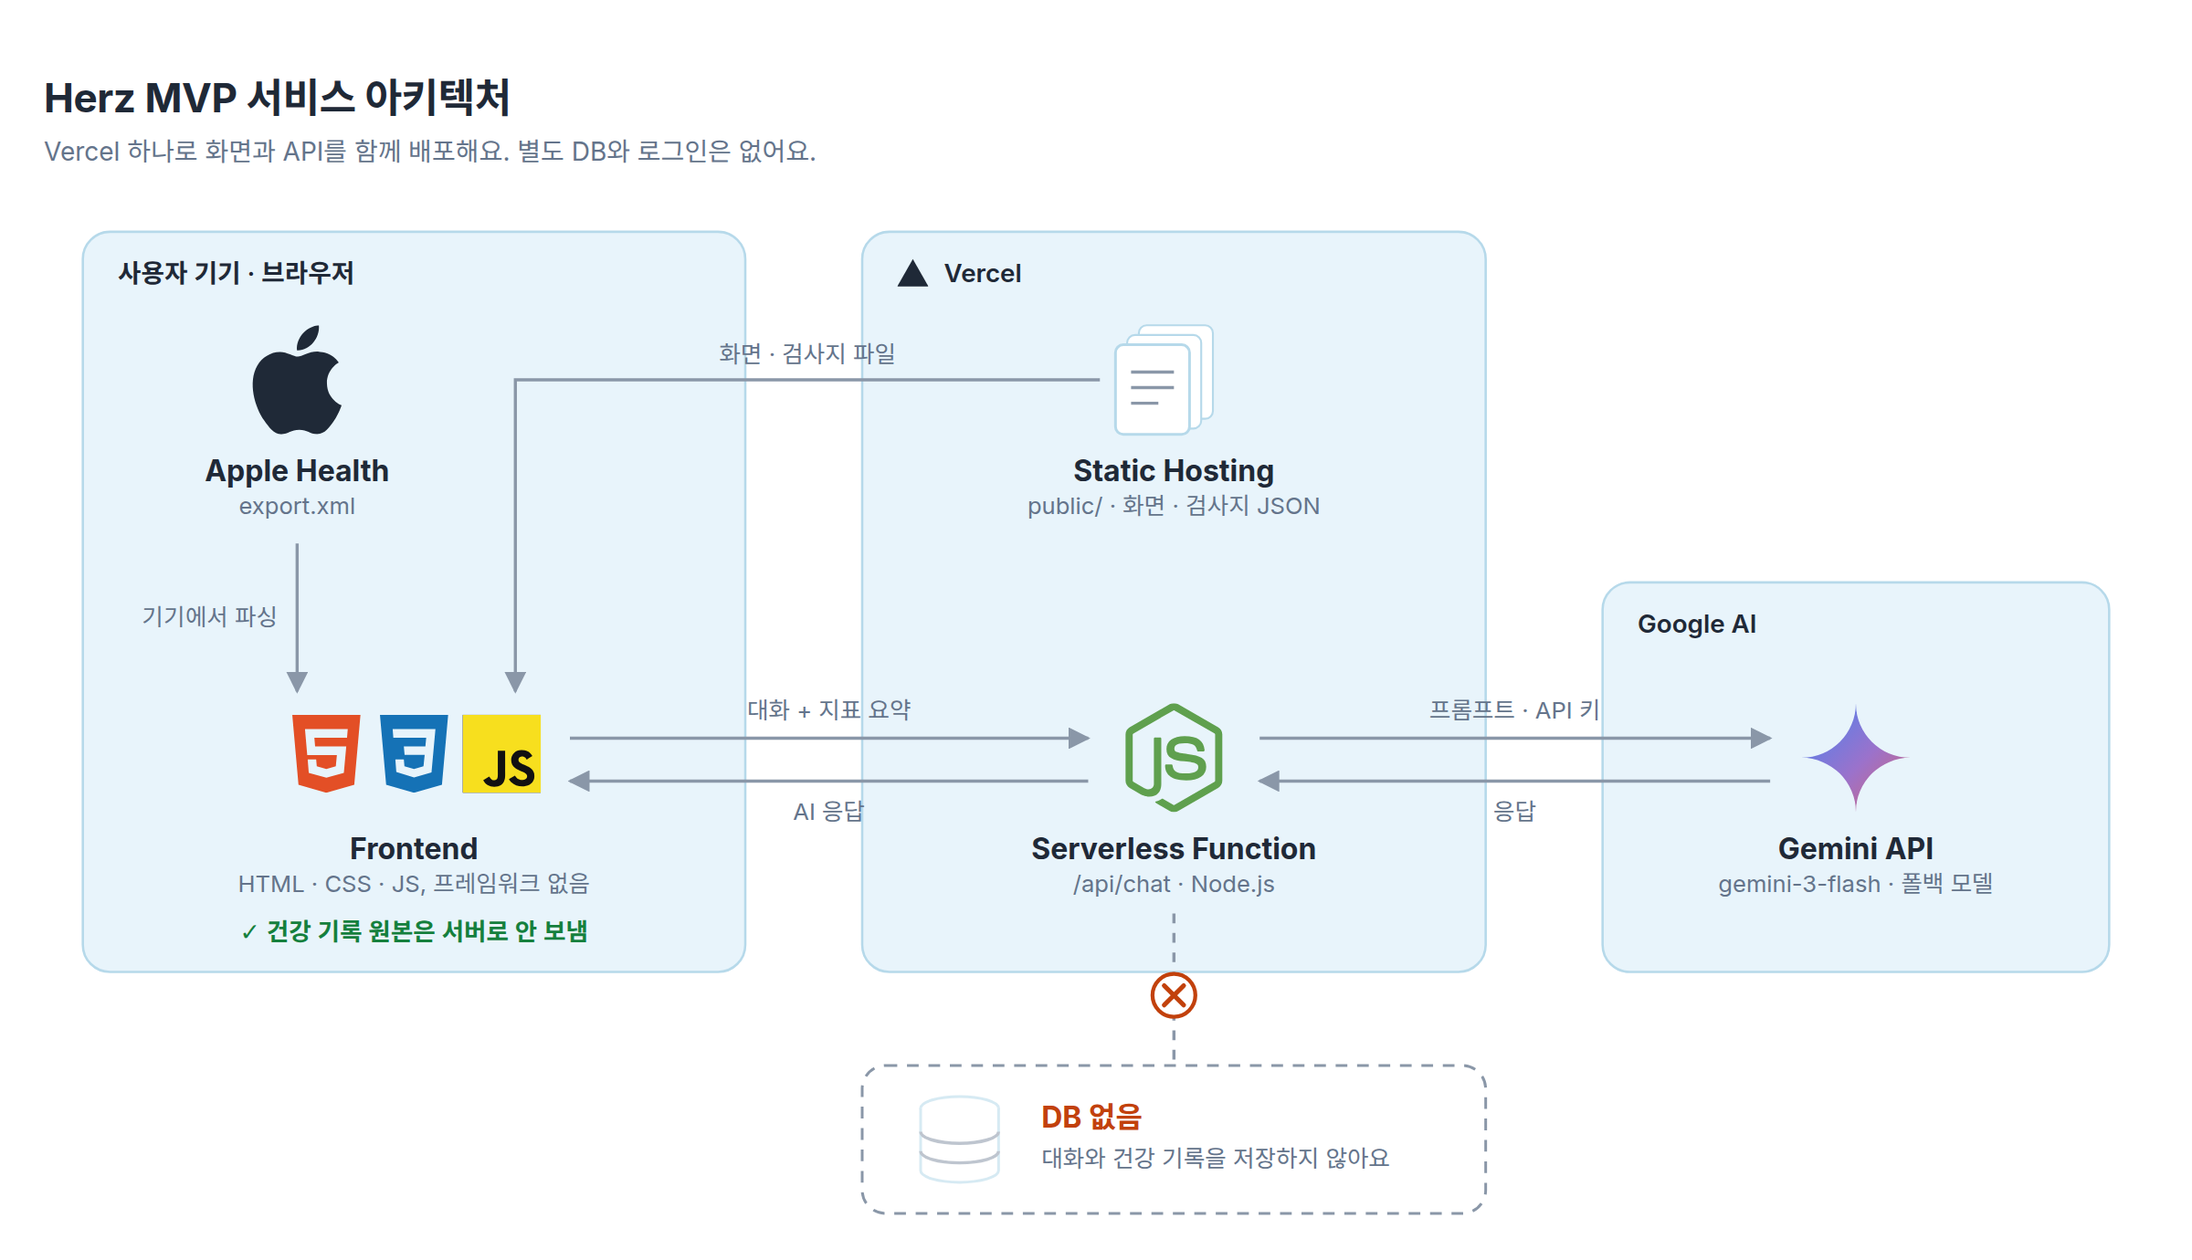
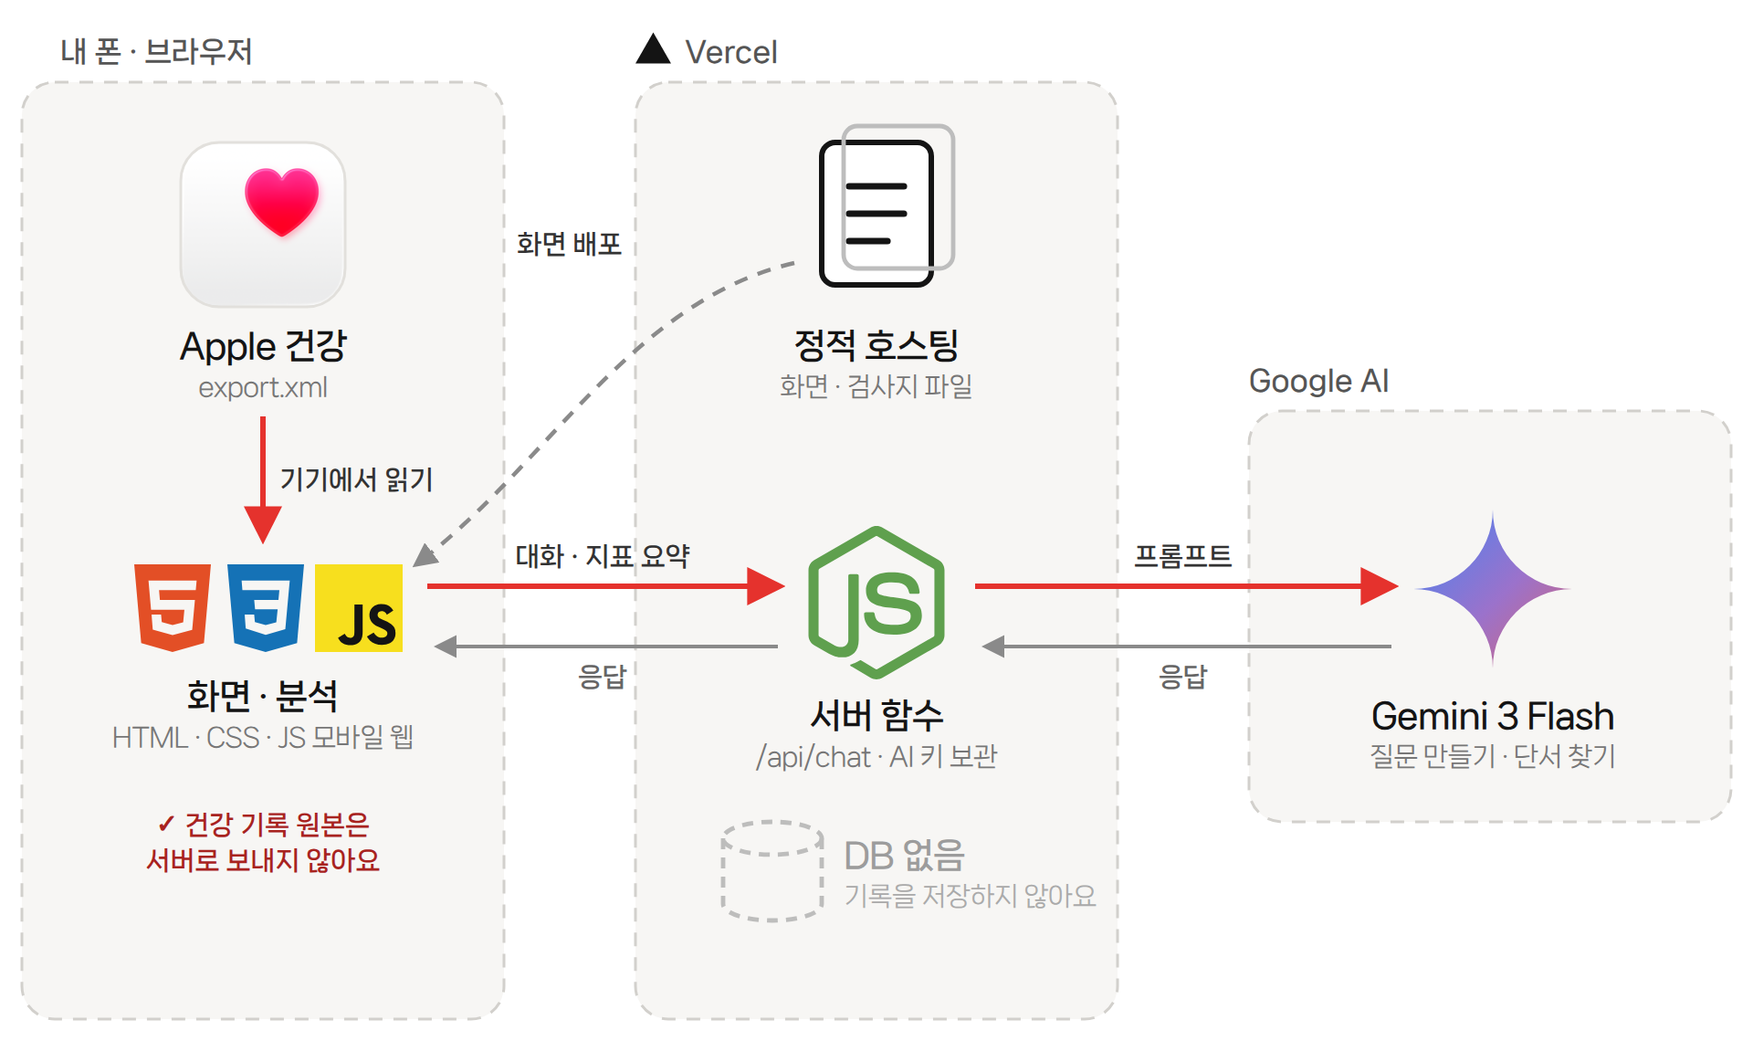
README: 아키텍처 그림을 발표 자료 4번 슬라이드 원본으로 교체

diff --git a/docs/readme/architecture.html b/docs/readme/architecture.html
@@ -1,151 +1,49 @@
-<title>Herz Architecture</title>
-<meta name="claude:viewport-fit-sides" content="cover">
-<link rel="preconnect" href="https://fonts.googleapis.com">
-<link rel="stylesheet" href="https://fonts.googleapis.com/css2?family=Inter:wght@400;600;700&family=Noto+Sans+KR:wght@400;500;700&display=swap">
-<style>
-/* Layout: one wide system diagram, three clusters left to right, the absent DB below the server. */
-:root {
-  --bg: #ffffff;
-  --fg: #1f2937;
-  --muted: #64748b;
-  --panel: #e8f4fb;
-  --panel-stroke: #b6d9ea;
-  --edge: #8a97a8;
-  --ok: #15803d;
-  --no: #c2410c;
-  --chip: #111827;
-  --font: "Inter", "Noto Sans KR", system-ui, sans-serif;
-}
-@media (prefers-color-scheme: dark) {
-  :root:not([data-theme="light"]) {
-    --bg: #0f1419; --fg: #e5e7eb; --muted: #94a3b8; --panel: #15232e; --panel-stroke: #2c4a5c;
-    --edge: #7c8a9c; --ok: #4ade80; --no: #fb923c; --chip: #0b0f14; color-scheme: dark;
-  }
-}
-:root[data-theme="dark"] {
-  --bg: #0f1419; --fg: #e5e7eb; --muted: #94a3b8; --panel: #15232e; --panel-stroke: #2c4a5c;
-  --edge: #7c8a9c; --ok: #4ade80; --no: #fb923c; --chip: #0b0f14; color-scheme: dark;
-}
-body { background: var(--bg); color: var(--fg); font-family: var(--font); }
-main { max-width: 1180px; margin: 0 auto; padding-block: 28px 40px;
-  padding-left: max(16px, env(safe-area-inset-left, 0px)); padding-right: max(16px, env(safe-area-inset-right, 0px)); }
-h1 { font-size: 22px; font-weight: 700; margin: 0 0 4px; letter-spacing: -0.01em; }
-.lead { margin: 0 0 20px; color: var(--muted); font-size: 14px; }
-figure { margin: 0; }
-.scroll { overflow-x: auto; }
-svg.arch { display: block; width: 100%; height: auto; color: var(--fg); }
-figcaption { margin-top: 14px; color: var(--muted); font-size: 13px; text-align: center; }
-.grp { fill: var(--panel); stroke: var(--panel-stroke); stroke-width: 1.2; }
-.gt { fill: var(--fg); font-size: 13px; font-weight: 600; }
-.lbl { fill: var(--fg); font-size: 15px; font-weight: 700; text-anchor: middle; }
-.sub { fill: var(--muted); font-size: 12px; text-anchor: middle; }
-.el { fill: var(--muted); font-size: 12px; }
-.edge { stroke: var(--edge); stroke-width: 1.6; fill: none; }
-.dash { stroke-dasharray: 5 5; }
-.head { fill: var(--edge); }
-.fg { fill: var(--fg); }
-.ok { fill: var(--ok); font-size: 12.5px; font-weight: 600; }
-.no { stroke: var(--no); stroke-width: 2.4; fill: none; stroke-linecap: round; }
-.noTxt { fill: var(--no); font-size: 15px; font-weight: 700; }
-.nobox { fill: none; stroke: var(--edge); stroke-width: 1.4; stroke-dasharray: 6 5; }
-.card { fill: var(--bg); stroke: var(--panel-stroke); }
-.chip { fill: var(--chip); }
-</style>
+<!doctype html><html><head><meta charset="utf-8"><style>html,body{margin:0;background:#fff}</style></head><body><svg xmlns="http://www.w3.org/2000/svg" viewBox="0 0 640 380" width="640" height="380">
+<defs>
+<marker id="r" viewBox="0 0 10 10" refX="8" refY="5" markerWidth="7" markerHeight="7" orient="auto"><path d="M0,0 L10,5 L0,10 z" fill="#E5322D"/></marker>
+<marker id="g" viewBox="0 0 10 10" refX="8" refY="5" markerWidth="6" markerHeight="6" orient="auto"><path d="M0,0 L10,5 L0,10 z" fill="#8A8A8A"/></marker>
+<linearGradient id="gem" x1="0" y1="0" x2="1" y2="1"><stop offset="0" stop-color="#4285F4"/><stop offset=".55" stop-color="#9B72CB"/><stop offset="1" stop-color="#D96570"/></linearGradient>
+<style>.t{font:800 12.5px 'NanumSquare Neo','NanumBarunGothic',sans-serif;fill:#141414;letter-spacing:-.3px}.s{font:400 9.5px 'NanumSquare Neo','NanumBarunGothic',sans-serif;fill:#777;letter-spacing:-.2px}.gl{font:800 10.5px 'NanumSquare Neo','NanumBarunGothic',sans-serif;fill:#555}.al{font:700 9.5px 'NanumSquare Neo','NanumBarunGothic',sans-serif;fill:#333}.ok{font:800 9.5px 'NanumSquare Neo','NanumBarunGothic',sans-serif;fill:#A8231F}</style>
+</defs>
+<rect x="8" y="30" width="176" height="342" rx="12" fill="#F7F6F4" stroke="#D2D0CC" stroke-dasharray="5 4"/>
+<text x="22" y="22" class="gl">내 폰 · 브라우저</text>
+<rect x="232" y="30" width="176" height="342" rx="12" fill="#F7F6F4" stroke="#D2D0CC" stroke-dasharray="5 4"/>
+<svg x="232" y="11" width="13" height="13" viewBox="0 0 24 24"><path fill="#141414" d="M24 22.525H0l12-21.05 12 21.05z"/></svg><text x="250" y="22" class="gl">Vercel</text>
+<rect x="456" y="150" width="176" height="150" rx="12" fill="#F7F6F4" stroke="#D2D0CC" stroke-dasharray="5 4"/>
+<text x="456" y="142" class="gl">Google AI</text>
 
-<main>
-  <h1>Herz MVP 서비스 아키텍처</h1>
-  <p class="lead">Vercel 하나로 화면과 API를 함께 배포해요. 별도 DB와 로그인은 없어요.</p>
+<image href="icons/apple-health.png" x="66" y="52" width="60" height="60" clip-path="inset(0 round 14px)"/>
+<rect x="66" y="52" width="60" height="60" rx="14" fill="none" stroke="#E2E0DC"/>
+<text x="96" y="130" text-anchor="middle" class="t">Apple 건강</text><text x="96" y="144" text-anchor="middle" class="s">export.xml</text>
 
-  <figure>
-    <div class="scroll">
-    <svg class="arch" viewBox="20 56 1080 534" role="img"
-      aria-label="브라우저가 건강 기록을 기기 안에서 분석하고, 대화와 지표 요약만 Vercel 함수로 보내며, 함수가 Gemini API를 호출한다. DB는 없다.">
-      <defs>
-        <marker id="arw" viewBox="0 0 10 10" refX="9" refY="5" markerWidth="7" markerHeight="7" orient="auto-start-reverse">
-          <path class="head" d="M0 0 10 5 0 10z"/>
-        </marker>
-        <linearGradient id="gem" x1="0" y1="0" x2="1" y2="1">
-          <stop offset="0" stop-color="#4285F4"/>
-          <stop offset=".55" stop-color="#9B72CB"/>
-          <stop offset="1" stop-color="#D96570"/>
-        </linearGradient>
-      </defs>
+<path d="M96 152 V196" stroke="#E5322D" stroke-width="2" fill="none" marker-end="url(#r)"/>
+<text x="102" y="178" class="al">기기에서 읽기</text>
 
-      <!-- clusters -->
-      <rect class="grp" x="40" y="70" width="340" height="380" rx="14"/>
-      <text class="gt" x="58" y="96">사용자 기기 · 브라우저</text>
+<svg x="47" y="206" width="32" height="32" viewBox="0 0 24 24"><path fill="#E34F26" d="M1.5 0h21l-1.91 21.563L11.977 24l-8.564-2.438L1.5 0zm7.031 9.75l-.232-2.718 10.059.003.23-2.622L5.412 4.41l.698 8.01h9.126l-.326 3.426-2.91.804-2.955-.81-.188-2.11H6.248l.33 4.171L12 19.351l5.379-1.443.744-8.157H8.531z"/></svg><svg x="81" y="206" width="32" height="32" viewBox="0 0 24 24"><path fill="#1572B6" d="M1.5 0h21l-1.91 21.563L11.977 24l-8.565-2.438L1.5 0zm17.09 4.413L5.41 4.41l.213 2.622 10.125.002-.255 2.716h-6.64l.24 2.573h6.182l-.366 3.523-2.91.804-2.956-.81-.188-2.11h-2.61l.29 3.855L12 19.288l5.373-1.53L18.59 4.414z"/></svg><rect x="117" y="208" width="28" height="28" fill="#141414"/><svg x="115" y="206" width="32" height="32" viewBox="0 0 24 24"><path fill="#F7DF1E" d="M0 0h24v24H0V0zm22.034 18.276c-.175-1.095-.888-2.015-3.003-2.873-.736-.345-1.554-.585-1.797-1.14-.091-.33-.105-.51-.046-.705.15-.646.915-.84 1.515-.66.39.12.75.42.976.9 1.034-.676 1.034-.676 1.755-1.125-.27-.42-.404-.601-.586-.78-.63-.705-1.469-1.065-2.834-1.034l-.705.089c-.676.165-1.32.525-1.71 1.005-1.14 1.291-.811 3.541.569 4.471 1.365 1.02 3.361 1.244 3.616 2.205.24 1.17-.87 1.545-1.966 1.41-.811-.18-1.26-.586-1.755-1.336l-1.83 1.051c.21.48.45.689.81 1.109 1.74 1.756 6.09 1.666 6.871-1.004.029-.09.24-.705.074-1.65l.046.067zm-8.983-7.245h-2.248c0 1.938-.009 3.864-.009 5.805 0 1.232.063 2.363-.138 2.711-.33.689-1.18.601-1.566.48-.396-.196-.597-.466-.83-.855-.063-.105-.11-.196-.127-.196l-1.825 1.125c.305.63.75 1.172 1.324 1.517.855.51 2.004.675 3.207.405.783-.226 1.458-.691 1.811-1.411.51-.93.402-2.07.397-3.346.012-2.054 0-4.109 0-6.179l.004-.056z"/></svg>
+<text x="96" y="258" text-anchor="middle" class="t">화면 · 분석</text><text x="96" y="272" text-anchor="middle" class="s">HTML · CSS · JS 모바일 웹</text>
+<text x="96" y="304" text-anchor="middle" class="ok">✓ 건강 기록 원본은</text>
+<text x="96" y="317" text-anchor="middle" class="ok">서버로 보내지 않아요</text>
 
-      <rect class="grp" x="440" y="70" width="320" height="380" rx="14"/>
-      <svg x="458" y="83" width="16" height="16" viewBox="0 0 24 24"><path class="fg" d="M24 22.525H0l12-21.05 12 21.05z"/></svg>
-      <text class="gt" x="482" y="96">Vercel</text>
+<g transform="translate(296,52)"><rect x="4" y="0" width="40" height="52" rx="5" fill="#fff" stroke="#141414" stroke-width="2"/><path d="M14 16 H34 M14 26 H34 M14 36 H28" stroke="#141414" stroke-width="2.4" stroke-linecap="round"/><rect x="12" y="-6" width="40" height="52" rx="5" fill="none" stroke="#BDBDBD" stroke-width="1.6"/></g>
+<text x="320" y="130" text-anchor="middle" class="t">정적 호스팅</text><text x="320" y="144" text-anchor="middle" class="s">화면 · 검사지 파일</text>
+<path d="M290 96 C230 110 200 170 152 206" stroke="#8A8A8A" stroke-width="1.5" stroke-dasharray="5 4" fill="none" marker-end="url(#g)"/>
+<text x="208" y="92" text-anchor="middle" class="al" fill="#666">화면 배포</text>
 
-      <rect class="grp" x="820" y="250" width="260" height="200" rx="14"/>
-      <text class="gt" x="838" y="276">Google AI</text>
+<svg x="292" y="192" width="56" height="56" viewBox="0 0 24 24"><path fill="#5FA04E" d="M11.998,24c-0.321,0-0.641-0.084-0.922-0.247l-2.936-1.737c-0.438-0.245-0.224-0.332-0.08-0.383 c0.585-0.203,0.703-0.25,1.328-0.604c0.065-0.037,0.151-0.023,0.218,0.017l2.256,1.339c0.082,0.045,0.197,0.045,0.272,0l8.795-5.076 c0.082-0.047,0.134-0.141,0.134-0.238V6.921c0-0.099-0.053-0.192-0.137-0.242l-8.791-5.072c-0.081-0.047-0.189-0.047-0.271,0 L3.075,6.68C2.99,6.729,2.936,6.825,2.936,6.921v10.15c0,0.097,0.054,0.189,0.139,0.235l2.409,1.392 c1.307,0.654,2.108-0.116,2.108-0.89V7.787c0-0.142,0.114-0.253,0.256-0.253h1.115c0.139,0,0.255,0.112,0.255,0.253v10.021 c0,1.745-0.95,2.745-2.604,2.745c-0.508,0-0.909,0-2.026-0.551L2.28,18.675c-0.57-0.329-0.922-0.945-0.922-1.604V6.921 c0-0.659,0.353-1.275,0.922-1.603l8.795-5.082c0.557-0.315,1.296-0.315,1.848,0l8.794,5.082c0.57,0.329,0.924,0.944,0.924,1.603 v10.15c0,0.659-0.354,1.273-0.924,1.604l-8.794,5.078C12.643,23.916,12.324,24,11.998,24z M19.099,13.993 c0-1.9-1.284-2.406-3.987-2.763c-2.731-0.361-3.009-0.548-3.009-1.187c0-0.528,0.235-1.233,2.258-1.233 c1.807,0,2.473,0.389,2.747,1.607c0.024,0.115,0.129,0.199,0.247,0.199h1.141c0.071,0,0.138-0.031,0.186-0.081 c0.048-0.054,0.074-0.123,0.067-0.196c-0.177-2.098-1.571-3.076-4.388-3.076c-2.508,0-4.004,1.058-4.004,2.833 c0,1.925,1.488,2.457,3.895,2.695c2.88,0.282,3.103,0.703,3.103,1.269c0,0.983-0.789,1.402-2.642,1.402 c-2.327,0-2.839-0.584-3.011-1.742c-0.02-0.124-0.126-0.215-0.253-0.215h-1.137c-0.141,0-0.254,0.112-0.254,0.253 c0,1.482,0.806,3.248,4.655,3.248C17.501,17.007,19.099,15.91,19.099,13.993z"/></svg>
+<text x="320" y="265" text-anchor="middle" class="t">서버 함수</text><text x="320" y="279" text-anchor="middle" class="s">/api/chat · AI 키 보관</text>
 
-      <!-- A: Apple Health export -->
-      <svg x="122" y="118" width="56" height="56" viewBox="0 0 24 24"><path class="fg" d="M12.152 6.896c-.948 0-2.415-1.078-3.96-1.04-2.04.027-3.91 1.183-4.961 3.014-2.117 3.675-.546 9.103 1.519 12.09 1.013 1.454 2.208 3.09 3.792 3.039 1.52-.065 2.09-.987 3.935-.987 1.831 0 2.35.987 3.96.948 1.637-.026 2.676-1.48 3.676-2.948 1.156-1.688 1.636-3.325 1.662-3.415-.039-.013-3.182-1.221-3.22-4.857-.026-3.04 2.48-4.494 2.597-4.559-1.429-2.09-3.623-2.324-4.39-2.376-2-.156-3.675 1.09-4.61 1.09zM15.53 3.83c.843-1.012 1.4-2.427 1.245-3.83-1.207.052-2.662.805-3.532 1.818-.78.896-1.454 2.338-1.273 3.714 1.338.104 2.715-.688 3.559-1.701"/></svg>
-      <text class="lbl" x="150" y="198">Apple Health</text>
-      <text class="sub" x="150" y="215">export.xml</text>
+<g transform="translate(262,300)" opacity=".75"><ellipse cx="20" cy="6" rx="18" ry="6" fill="none" stroke="#AAA" stroke-width="1.6" stroke-dasharray="4 3"/><path d="M2 6 V30 A18 6 0 0 0 38 30 V6" fill="none" stroke="#AAA" stroke-width="1.6" stroke-dasharray="4 3"/></g>
+<text x="308" y="316" class="t" style="fill:#9C9C9C;font-weight:700">DB 없음</text><text x="308" y="330" class="s" style="fill:#AAA">기록을 저장하지 않아요</text>
 
-      <!-- B: Frontend -->
-      <svg x="145" y="318" width="40" height="40" viewBox="0 0 24 24"><path fill="#E34F26" d="M1.5 0h21l-1.91 21.563L11.977 24l-8.564-2.438L1.5 0zm7.031 9.75l-.232-2.718 10.059.003.23-2.622L5.412 4.41l.698 8.01h9.126l-.326 3.426-2.91.804-2.955-.81-.188-2.11H6.248l.33 4.171L12 19.351l5.379-1.443.744-8.157H8.531z"/></svg>
-      <svg x="190" y="318" width="40" height="40" viewBox="0 0 24 24"><path fill="#1572B6" d="M1.5 0h21l-1.91 21.563L11.977 24l-8.565-2.438L1.5 0zm17.09 4.413L5.41 4.41l.213 2.622 10.125.002-.255 2.716h-6.64l.24 2.573h6.182l-.366 3.523-2.91.804-2.956-.81-.188-2.11h-2.61l.29 3.855L12 19.288l5.373-1.53L18.59 4.414z"/></svg>
-      <rect x="235" y="318" width="40" height="40" fill="#111"/>
-      <svg x="235" y="318" width="40" height="40" viewBox="0 0 24 24"><path fill="#F7DF1E" d="M0 0h24v24H0V0zm22.034 18.276c-.175-1.095-.888-2.015-3.003-2.873-.736-.345-1.554-.585-1.797-1.14-.091-.33-.105-.51-.046-.705.15-.646.915-.84 1.515-.66.39.12.75.42.976.9 1.034-.676 1.034-.676 1.755-1.125-.27-.42-.404-.601-.586-.78-.63-.705-1.469-1.065-2.834-1.034l-.705.089c-.676.165-1.32.525-1.71 1.005-1.14 1.291-.811 3.541.569 4.471 1.365 1.02 3.361 1.244 3.616 2.205.24 1.17-.87 1.545-1.966 1.41-.811-.18-1.26-.586-1.755-1.336l-1.83 1.051c.21.48.45.689.81 1.109 1.74 1.756 6.09 1.666 6.871-1.004.029-.09.24-.705.074-1.65l.046.067zm-8.983-7.245h-2.248c0 1.938-.009 3.864-.009 5.805 0 1.232.063 2.363-.138 2.711-.33.689-1.18.601-1.566.48-.396-.196-.597-.466-.83-.855-.063-.105-.11-.196-.127-.196l-1.825 1.125c.305.63.75 1.172 1.324 1.517.855.51 2.004.675 3.207.405.783-.226 1.458-.691 1.811-1.411.51-.93.402-2.07.397-3.346.012-2.054 0-4.109 0-6.179l.004-.056z"/></svg>
-      <text class="lbl" x="210" y="392">Frontend</text>
-      <text class="sub" x="210" y="409">HTML · CSS · JS, 프레임워크 없음</text>
-      <text class="ok" x="210" y="434" text-anchor="middle">✓ 건강 기록 원본은 서버로 안 보냄</text>
+<path d="M156 214 H284" stroke="#E5322D" stroke-width="2" fill="none" marker-end="url(#r)"/>
+<text x="220" y="206" text-anchor="middle" class="al">대화 · 지표 요약</text>
+<path d="M284 236 H160" stroke="#8A8A8A" stroke-width="1.4" fill="none" marker-end="url(#g)"/>
+<text x="220" y="250" text-anchor="middle" class="al" style="fill:#666">응답</text>
 
-      <!-- C: static hosting -->
-      <g transform="translate(572 118)">
-        <rect class="card" x="10" y="0" width="38" height="48" rx="4"/>
-        <rect class="card" x="4" y="5" width="38" height="48" rx="4"/>
-        <rect class="card" x="-2" y="10" width="38" height="46" rx="4" stroke-width="1.4"/>
-        <path class="edge" d="M6 24h22M6 32h22M6 40h14"/>
-      </g>
-      <text class="lbl" x="600" y="198">Static Hosting</text>
-      <text class="sub" x="600" y="215">public/ · 화면 · 검사지 JSON</text>
-
-      <!-- D: serverless function -->
-      <svg x="572" y="312" width="56" height="56" viewBox="0 0 24 24"><path fill="#5FA04E" d="M11.998,24c-0.321,0-0.641-0.084-0.922-0.247l-2.936-1.737c-0.438-0.245-0.224-0.332-0.08-0.383 c0.585-0.203,0.703-0.25,1.328-0.604c0.065-0.037,0.151-0.023,0.218,0.017l2.256,1.339c0.082,0.045,0.197,0.045,0.272,0l8.795-5.076 c0.082-0.047,0.134-0.141,0.134-0.238V6.921c0-0.099-0.053-0.192-0.137-0.242l-8.791-5.072c-0.081-0.047-0.189-0.047-0.271,0 L3.075,6.68C2.99,6.729,2.936,6.825,2.936,6.921v10.150c0,0.097,0.054,0.189,0.139,0.235l2.409,1.392 c1.307,0.654,2.108-0.116,2.108-0.89V7.787c0-0.142,0.114-0.253,0.256-0.253h1.115c0.139,0,0.255,0.112,0.255,0.253v10.021 c0,1.745-0.95,2.745-2.604,2.745c-0.508,0-0.909,0-2.026-0.551L2.28,18.675c-0.57-0.329-0.922-0.945-0.922-1.604V6.921 c0-0.659,0.353-1.275,0.922-1.603l8.795-5.082c0.557-0.315,1.296-0.315,1.848,0l8.794,5.082c0.57,0.329,0.924,0.944,0.924,1.603 v10.15c0,0.659-0.354,1.273-0.924,1.604l-8.794,5.078C12.643,23.916,12.324,24,11.998,24z M19.099,13.993 c0-1.9-1.284-2.406-3.987-2.763c-2.731-0.361-3.009-0.548-3.009-1.187c0-0.528,0.235-1.233,2.258-1.233 c1.807,0,2.473,0.389,2.747,1.607c0.024,0.115,0.129,0.199,0.247,0.199h1.141c0.071,0,0.138-0.031,0.186-0.081 c0.048-0.054,0.074-0.123,0.067-0.196c-0.177-2.098-1.571-3.076-4.388-3.076c-2.508,0-4.004,1.058-4.004,2.833 c0,1.925,1.488,2.457,3.895,2.695c2.88,0.282,3.103,0.703,3.103,1.269c0,0.983-0.789,1.402-2.642,1.402 c-2.327,0-2.839-0.584-3.011-1.742c-0.02-0.124-0.126-0.215-0.253-0.215h-1.137c-0.141,0-0.254,0.112-0.254,0.253 c0,1.482,0.806,3.248,4.655,3.248C17.501,17.007,19.099,15.91,19.099,13.993z"/></svg>
-      <text class="lbl" x="600" y="392">Serverless Function</text>
-      <text class="sub" x="600" y="409">/api/chat · Node.js</text>
-
-      <!-- E: Gemini -->
-      <svg x="922" y="312" width="56" height="56" viewBox="0 0 24 24"><path fill="url(#gem)" d="M11.04 19.32Q12 21.51 12 24q0-2.49.93-4.68.96-2.19 2.58-3.81t3.81-2.55Q21.51 12 24 12q-2.49 0-4.68-.93a12.3 12.3 0 0 1-3.81-2.58 12.3 12.3 0 0 1-2.58-3.81Q12 2.49 12 0q0 2.49-.96 4.68-.93 2.19-2.55 3.81a12.3 12.3 0 0 1-3.81 2.58Q2.49 12 0 12q2.49 0 4.68.96 2.19.93 3.81 2.55t2.55 3.81"/></svg>
-      <text class="lbl" x="950" y="392">Gemini API</text>
-      <text class="sub" x="950" y="409">gemini-3-flash · 폴백 모델</text>
-
-      <!-- edges -->
-      <path class="edge" d="M150 230V306" marker-end="url(#arw)"/>
-      <text class="el" x="140" y="272" text-anchor="end">기기에서 파싱</text>
-
-      <path class="edge" d="M562 146H262V306" marker-end="url(#arw)"/>
-      <text class="el" x="412" y="137" text-anchor="middle">화면 · 검사지 파일</text>
-
-      <path class="edge" d="M290 330H556" marker-end="url(#arw)"/>
-      <text class="el" x="423" y="320" text-anchor="middle">대화 + 지표 요약</text>
-      <path class="edge" d="M556 352H290" marker-end="url(#arw)"/>
-      <text class="el" x="423" y="372" text-anchor="middle">AI 응답</text>
-
-      <path class="edge" d="M644 330H906" marker-end="url(#arw)"/>
-      <text class="el" x="775" y="320" text-anchor="middle">프롬프트 · API 키</text>
-      <path class="edge" d="M906 352H644" marker-end="url(#arw)"/>
-      <text class="el" x="775" y="372" text-anchor="middle">응답</text>
-
-      <!-- absent DB -->
-      <path class="edge dash" d="M600 420V496"/>
-      <g transform="translate(600 462)"><circle r="11" fill="var(--bg)" stroke="var(--no)" stroke-width="2"/><path class="no" d="M-5 -5 5 5M5 -5 -5 5"/></g>
-      <rect class="nobox" x="440" y="498" width="320" height="76" rx="12"/>
-      <g transform="translate(470 514)" opacity=".55">
-        <ellipse cx="20" cy="6" rx="20" ry="6" class="card" stroke-width="1.4"/>
-        <path d="M0 6v32c0 3.3 9 6 20 6s20-2.7 20-6V6" class="card" stroke-width="1.4"/>
-        <path d="M0 18c0 3.3 9 6 20 6s20-2.7 20-6M0 28c0 3.3 9 6 20 6s20-2.7 20-6" class="edge"/>
-      </g>
-      <text class="noTxt" x="532" y="530">DB 없음</text>
-      <text class="el" x="532" y="550">대화와 건강 기록을 저장하지 않아요</text>
-    </svg>
-    </div>
-    <figcaption>원본 건강 기록은 기기 안에서만 분석되고, 서버는 Gemini 호출을 중계만 해요.</figcaption>
-  </figure>
-</main>
+<svg x="516" y="186" width="58" height="58" viewBox="0 0 24 24"><path fill="url(#gem)" d="M11.04 19.32Q12 21.51 12 24q0-2.49.93-4.68.96-2.19 2.58-3.81t3.81-2.55Q21.51 12 24 12q-2.49 0-4.68-.93a12.3 12.3 0 0 1-3.81-2.58 12.3 12.3 0 0 1-2.58-3.81Q12 2.49 12 0q0 2.49-.96 4.68-.93 2.19-2.55 3.81a12.3 12.3 0 0 1-3.81 2.58Q2.49 12 0 12q2.49 0 4.68.96 2.19.93 3.81 2.55t2.55 3.81"/></svg>
+<text x="545" y="265" text-anchor="middle" class="t">Gemini 3 Flash</text><text x="545" y="279" text-anchor="middle" class="s">질문 만들기 · 단서 찾기</text>
+<path d="M356 214 H508" stroke="#E5322D" stroke-width="2" fill="none" marker-end="url(#r)"/>
+<text x="432" y="206" text-anchor="middle" class="al">프롬프트</text>
+<path d="M508 236 H360" stroke="#8A8A8A" stroke-width="1.4" fill="none" marker-end="url(#g)"/>
+<text x="432" y="250" text-anchor="middle" class="al" style="fill:#666">응답</text>
+</svg></body></html>
